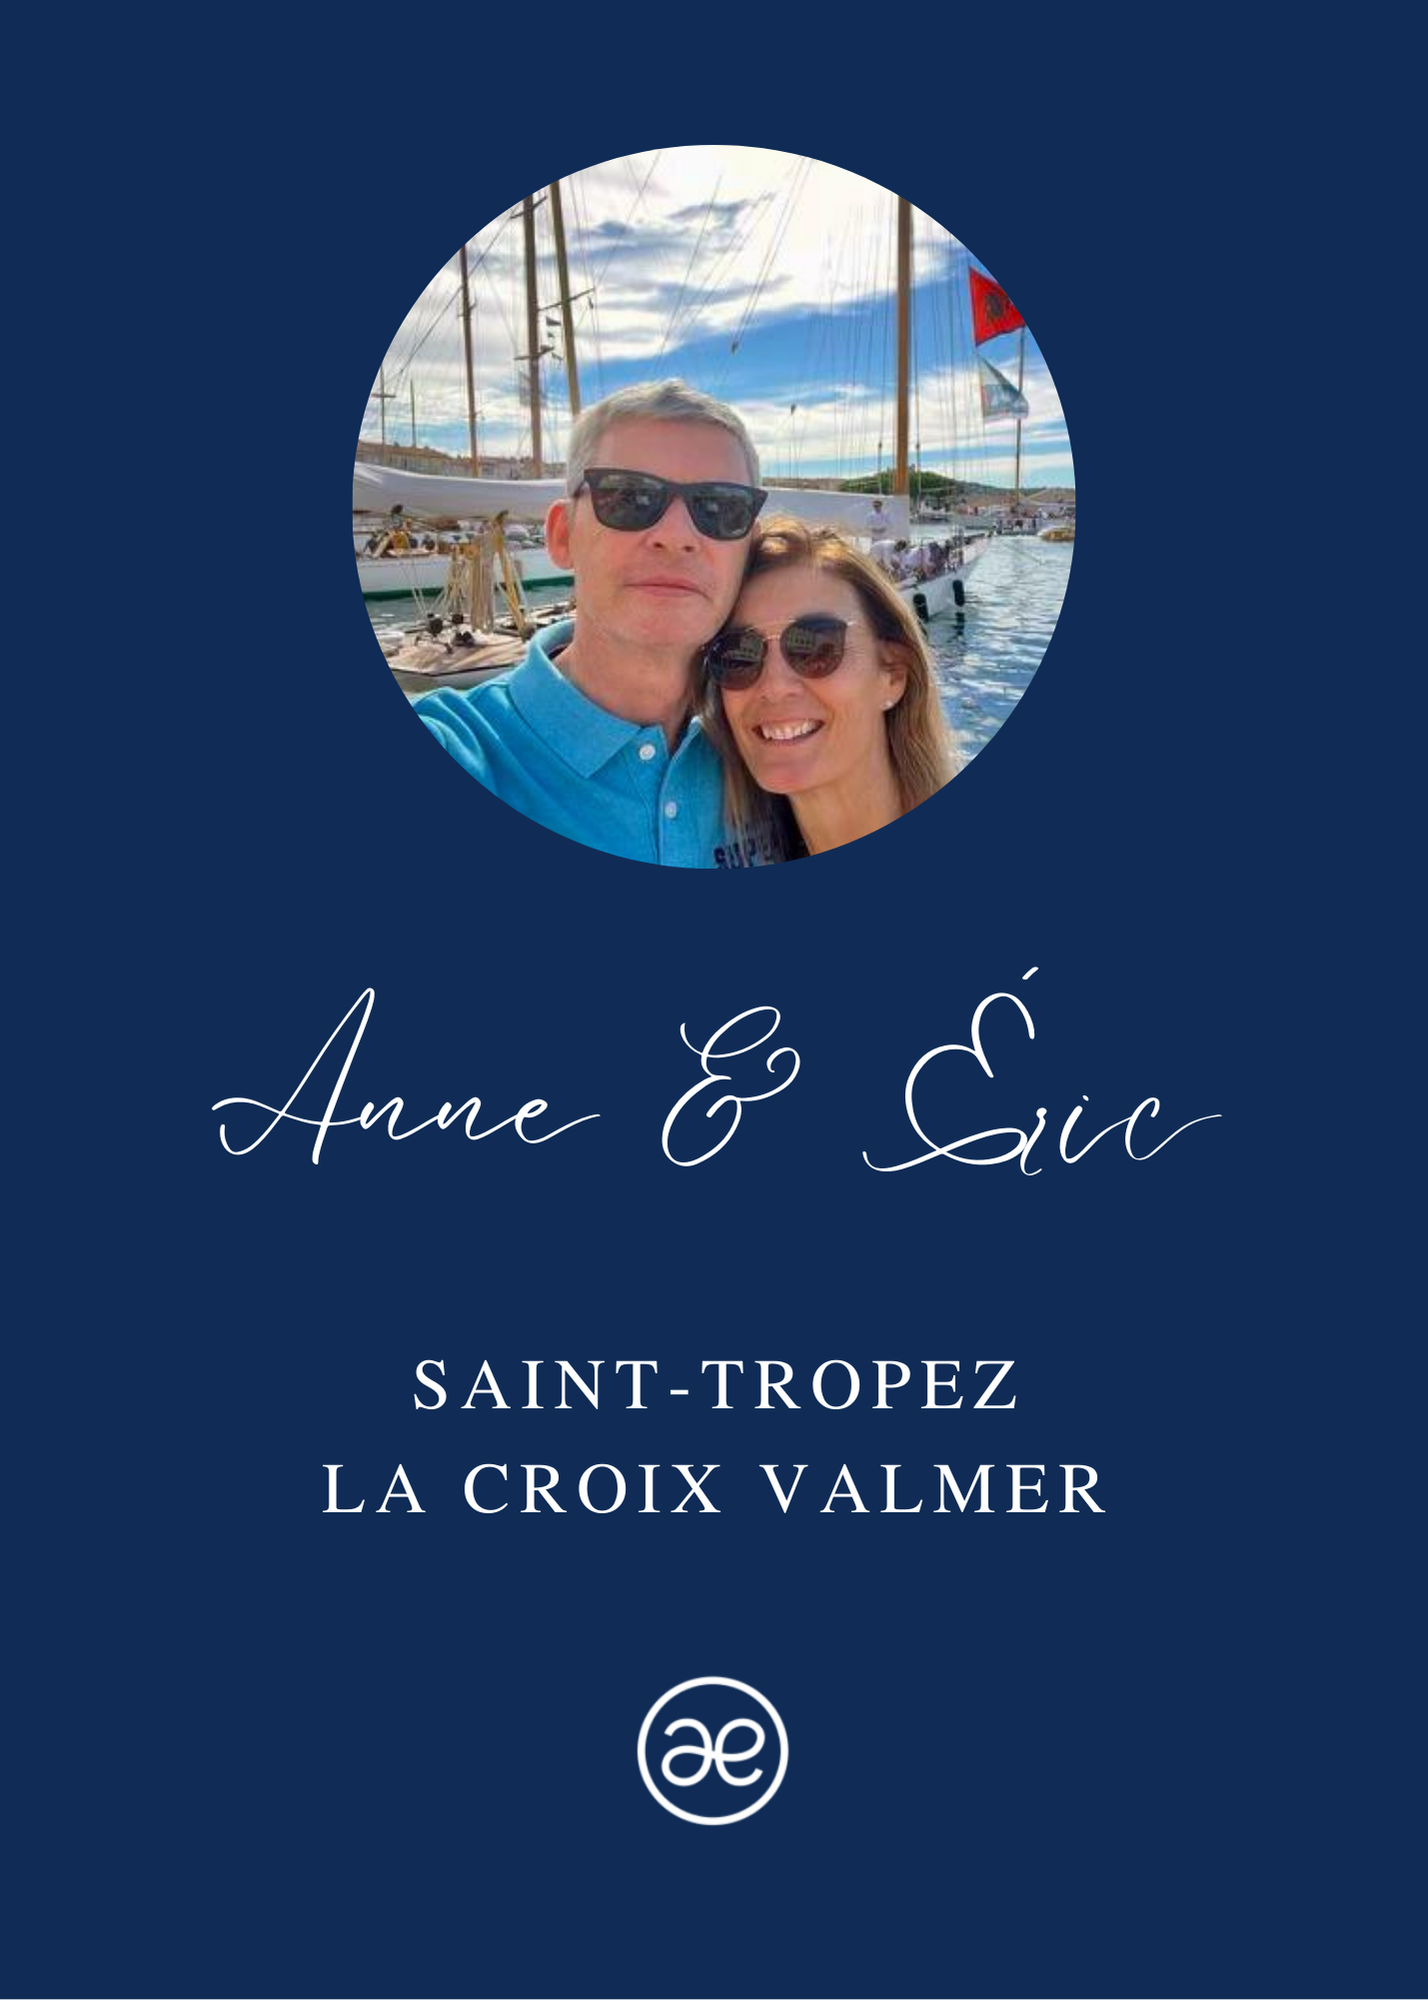
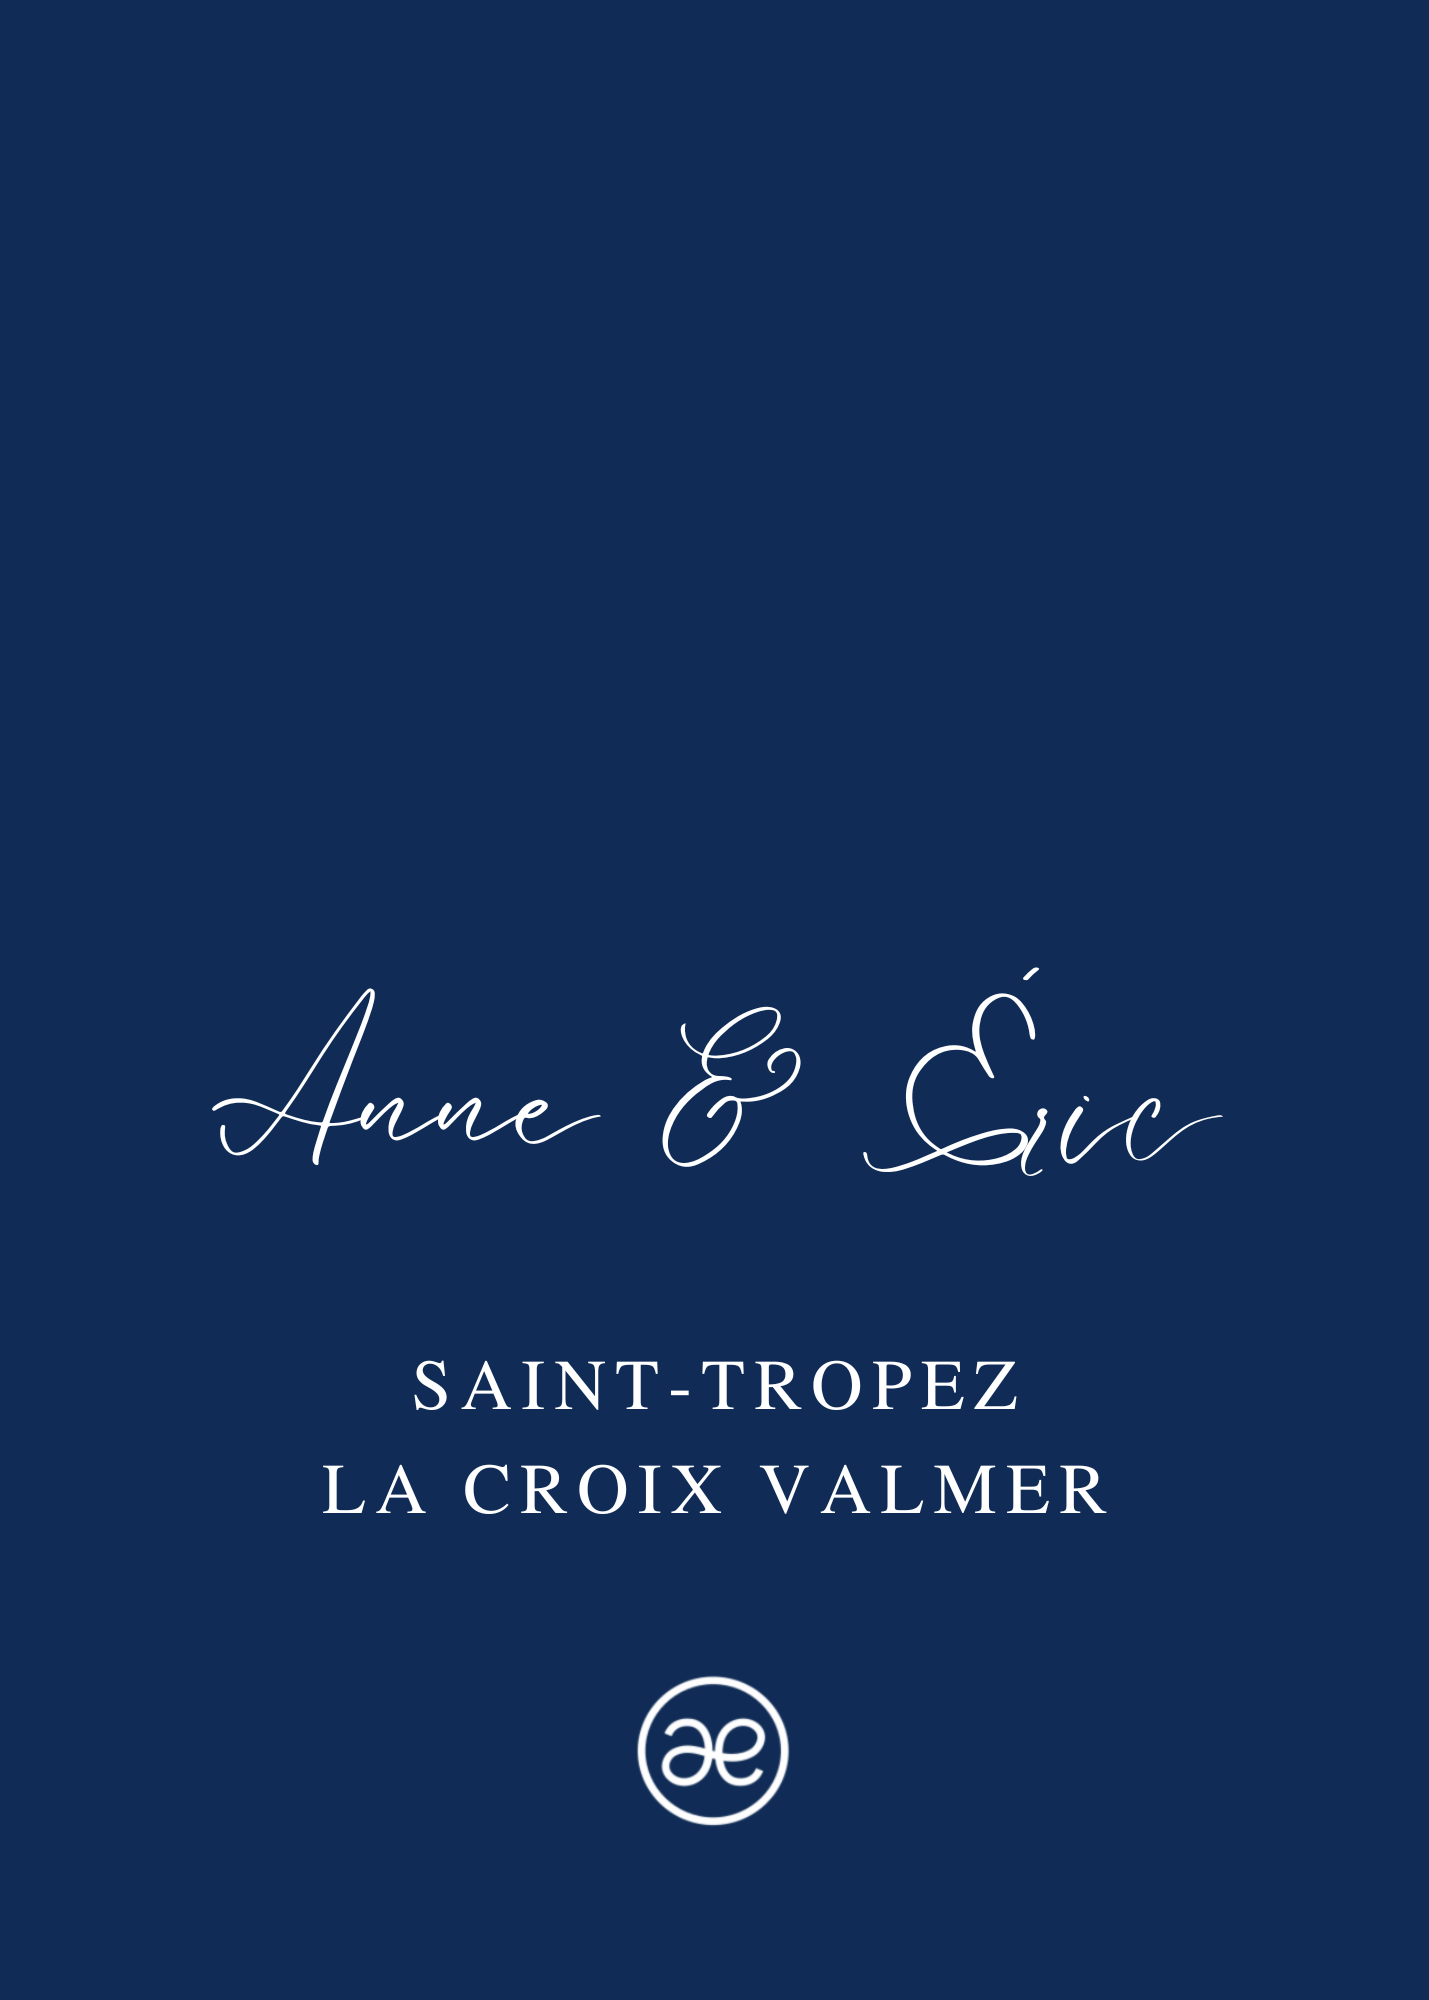
Add files via upload

diff --git a/index.html b/index.html
@@ -13,7 +13,7 @@
         <div class="envelope-wrapper">
             <div class="envelope">
                 <div class="letter" id="letter">
-                    <img src="img/1.png" alt="Page 1" style="width:100%; height:100%;">
+                    <img src="img/pre1.png" alt="Page 1" style="width:100%; height:100%;">
                 </div>
             </div>
             <img src="img/logo.png" alt="Logo" class="logo">
@@ -22,6 +22,7 @@
         <!-- Flipbook caché initialement -->
         <div id="flipbook" class="flipbook hidden">
             <div id="page1" class="page">
+                <img src="img/maries.jpg" alt="Image absolue" class="absolute-image">
                 <img src="img/1.png" alt="Page 1" style="width:100%; height:100%;">
             </div>
             <div id="page2" class="page">

diff --git a/style.css b/style.css
@@ -160,7 +160,7 @@ body {
     top: 5%; /* Ajuste la position verticale */
     left: 50%; /* Centre horizontalement */
     transform: translateX(-50%); /* Centrage de l'image */
-    width: 45%; /* Ajuste la taille de l'image */
+    width: 50%; /* Ajuste la taille de l'image */
     height: auto; /* Garde les proportions */
     z-index:15;
     border-radius : 50%;
